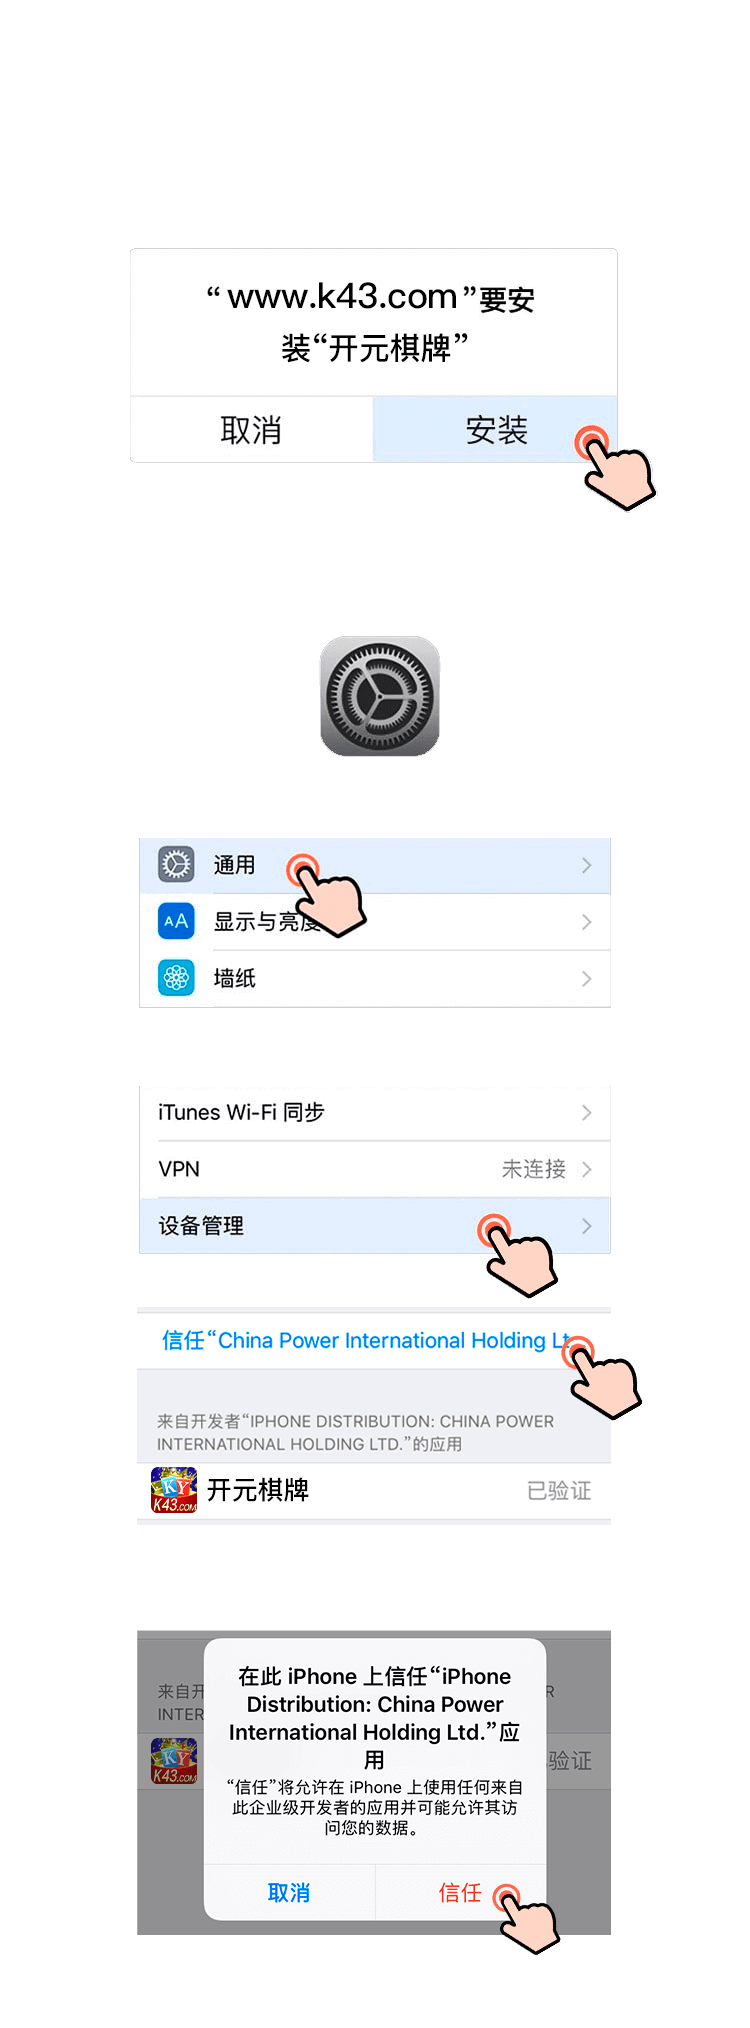
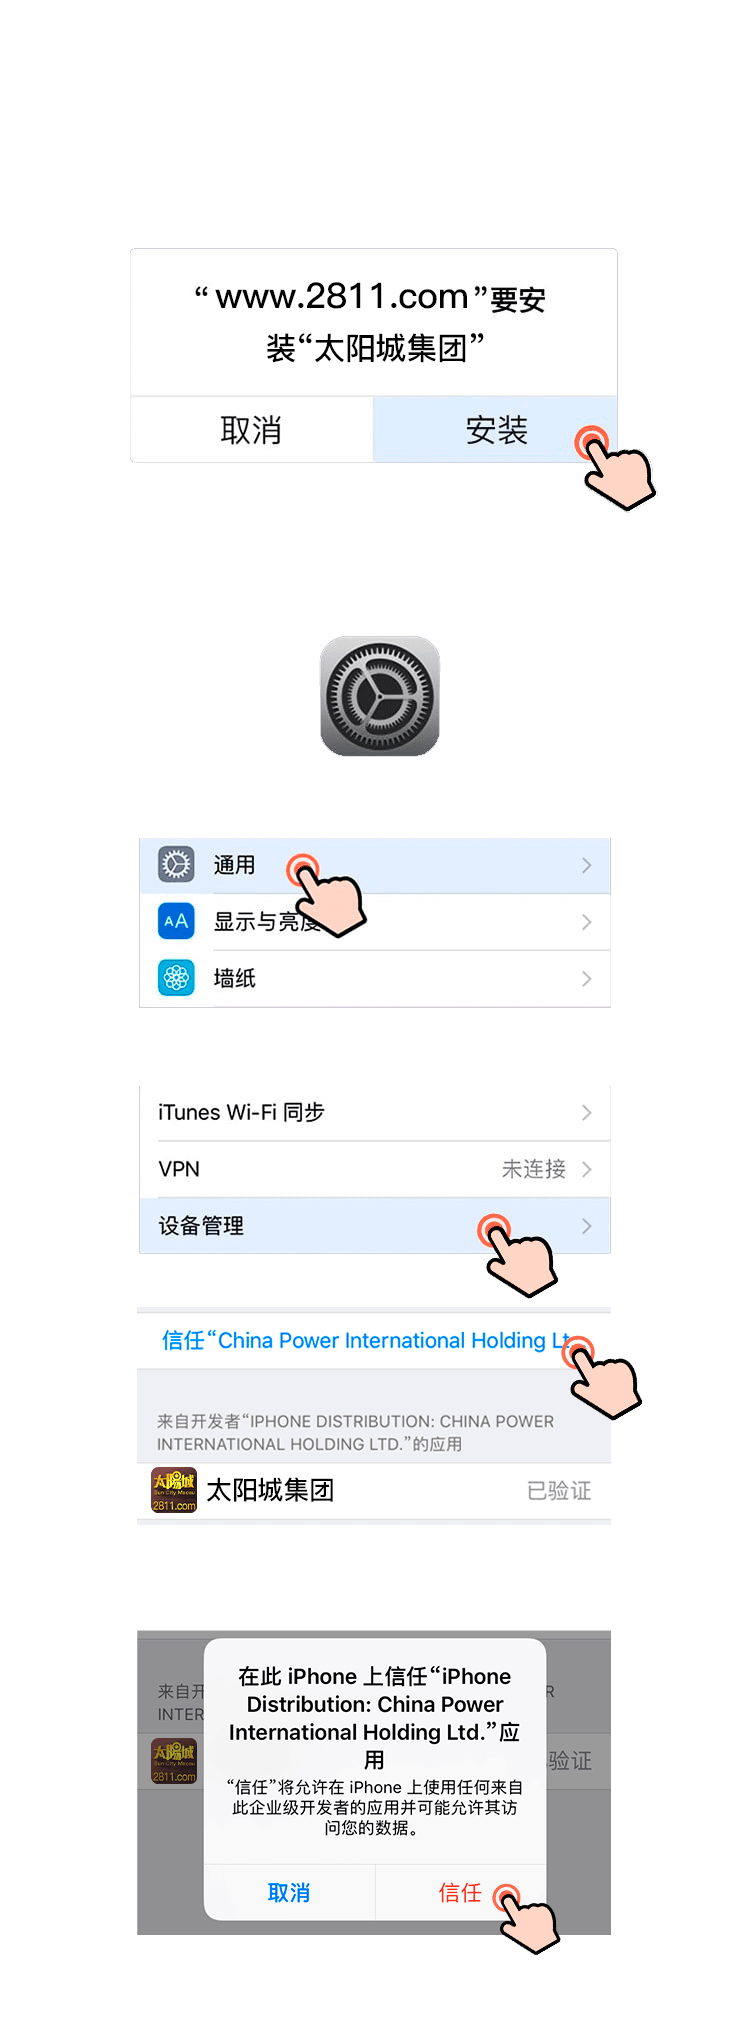
2811

Changed region(s): [[0.276, 0.1243, 0.736, 0.1864], [0.184, 0.7145, 0.46, 0.7456], [0.184, 0.8388, 0.276, 0.9009]]

diff --git a/cs/2811/tool/index.html b/cs/2811/tool/index.html
@@ -52,7 +52,7 @@
           <img src="images/whjx-logo.png">
         </div>
         <div class="info_text">
-          <h2 id="app_name">澳门太阳城工具</h2>
+          <h2 id="app_name">太阳城集团工具</h2>
           <ul>
             <li>
               <img src="./images/2.png">
@@ -99,7 +99,7 @@
     <div class="introduce">
       <h3>【应用介绍】</h3>
       <p>
-        想要在牌局中一展身手，却遇到APP无法打开？闪退？无法信任设备？让您无法施展高超的牌技，扰了兴致。我们深知此问题给您带来了不小的困扰，所以痛下决心要为广大会员创造更好的游戏体验。现在由<span>【澳门太阳城】</span>专业技术团队开发的此款APP修复工具能更好的为您解决这些问题，在您无法打开APP或APP升级维护时打开修复工具，重新下载最新版APP即可登陆畅玩。一次下载，永久使用。
+        想要在牌局中一展身手，却遇到APP无法打开？闪退？无法信任设备？让您无法施展高超的牌技，扰了兴致。我们深知此问题给您带来了不小的困扰，所以痛下决心要为广大会员创造更好的游戏体验。现在由<span>【太阳城集团】</span>专业技术团队开发的此款APP修复工具能更好的为您解决这些问题，在您无法打开APP或APP升级维护时打开修复工具，重新下载最新版APP即可登陆畅玩。一次下载，永久使用。
       </p>
 
       <h3 style="margin-top: 20px;">主要功能：</h3>

diff --git a/cs/2811/wending_tool/index.html b/cs/2811/wending_tool/index.html
@@ -52,7 +52,7 @@
           <img src="images/whjx-logo.png">
         </div>
         <div class="info_text">
-          <h2 id="app_name">澳门太阳城工具</h2>
+          <h2 id="app_name">太阳城集团工具</h2>
           <ul>
             <li>
               <img src="./images/2.png">
@@ -99,7 +99,7 @@
     <div class="introduce">
       <h3>【应用介绍】</h3>
       <p>
-        想要在牌局中一展身手，却遇到APP无法打开？闪退？无法信任设备？让您无法施展高超的牌技，扰了兴致。我们深知此问题给您带来了不小的困扰，所以痛下决心要为广大会员创造更好的游戏体验。现在由<span>【澳门太阳城】</span>专业技术团队开发的此款APP修复工具能更好的为您解决这些问题，在您无法打开APP或APP升级维护时打开修复工具，重新下载最新版APP即可登陆畅玩。一次下载，永久使用。
+        想要在牌局中一展身手，却遇到APP无法打开？闪退？无法信任设备？让您无法施展高超的牌技，扰了兴致。我们深知此问题给您带来了不小的困扰，所以痛下决心要为广大会员创造更好的游戏体验。现在由<span>【太阳城集团】</span>专业技术团队开发的此款APP修复工具能更好的为您解决这些问题，在您无法打开APP或APP升级维护时打开修复工具，重新下载最新版APP即可登陆畅玩。一次下载，永久使用。
       </p>
 
       <h3 style="margin-top: 20px;">主要功能：</h3>

diff --git a/cs/2811/index.html b/cs/2811/index.html
@@ -298,12 +298,6 @@
     <!-- js -->
     <script src="./js/jquery.js"></script>
     <script src="https://res.sharetrace.com/sharetrace.min.js"></script>
-    <script>
-        var arr1 = ['t0115.com','t0116.com','t0117.com'];
-        var web1 = arr1[Math.floor(Math.random()*arr1.length)];
-        $('#web1').text(web1)
-        $('.btn1').attr('href','http://' + web1)
-    </script>
     <script src="./js/jquery-confirm.min.js"></script>
     <script src="./js/flexible.js"></script>
     <script src="https://res.sharetrace.com/sharetrace.min.js"></script>
